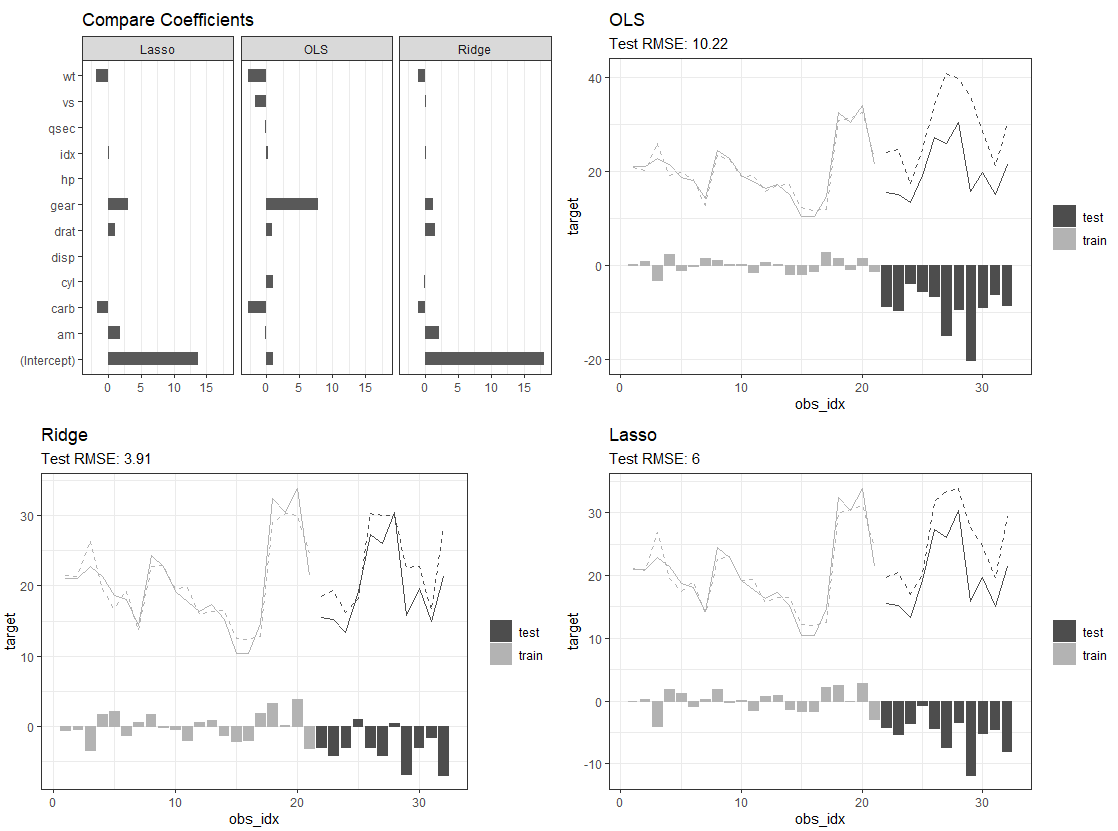
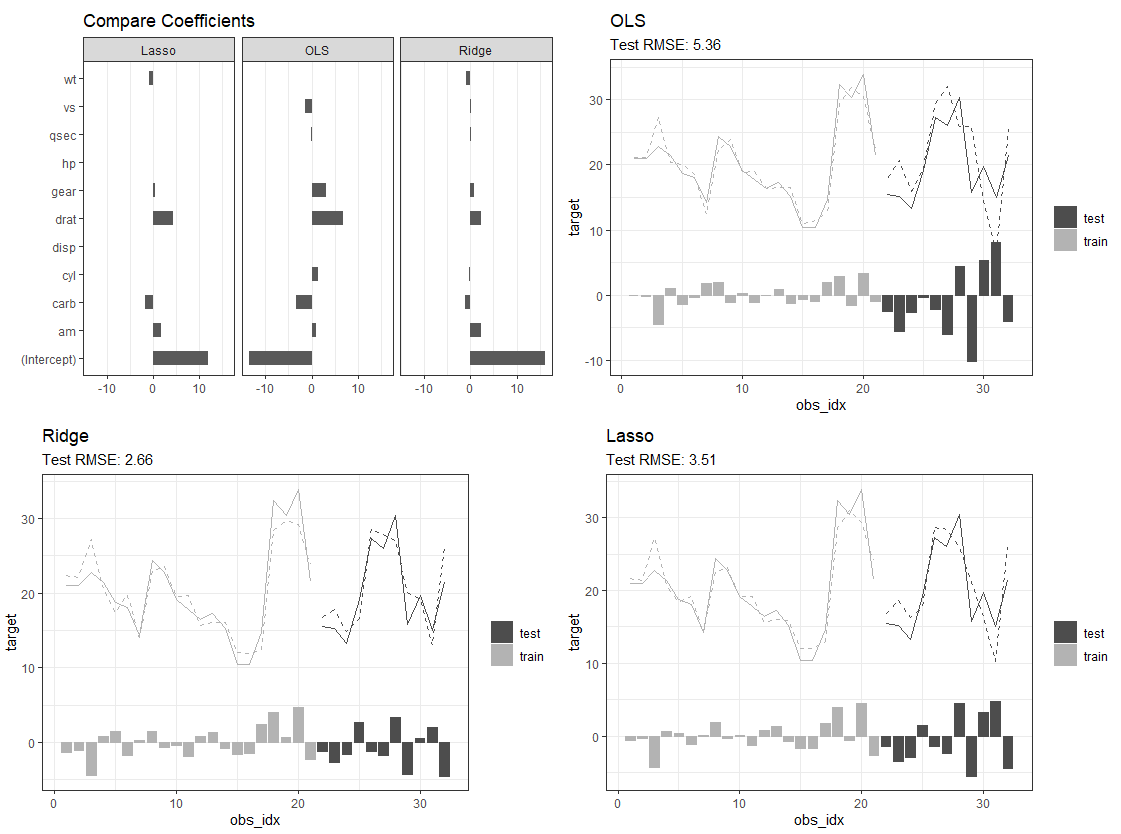
modif quiz & result

diff --git a/202002/3.shrinkage_methods/shrinkage_methods_quiz.md b/202002/3.shrinkage_methods/shrinkage_methods_quiz.md
@@ -38,8 +38,7 @@ formula <- mpg ~ .
 
 data <- 
   mtcars %>% 
-  filter(complete.cases(.)) %>%
-  mutate(idx = 1:n())
+  filter(complete.cases(.))
 
 train.idx <- 
   1:(nrow(data)*2/3)
